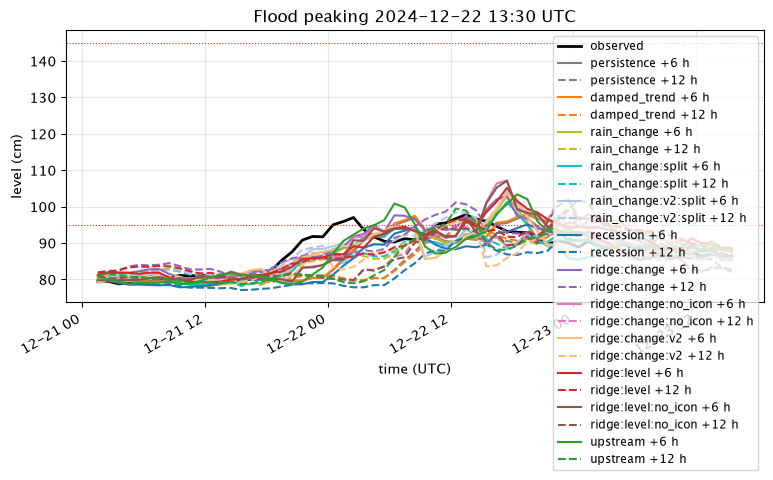
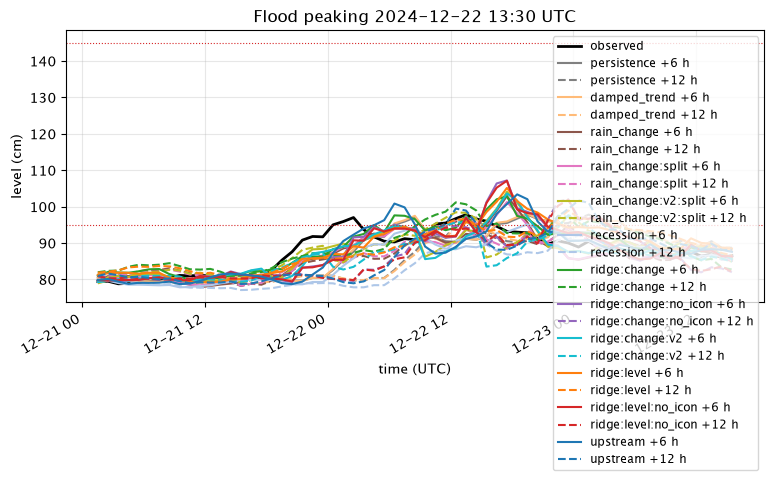
docs(evaluation): regenerate the 2026-10-15-models-v2 log section
Same run, rebuilt with the tie-aware summary and the new palette.

diff --git a/analysis/model-evaluation/experiments.md b/analysis/model-evaluation/experiments.md
@@ -168,7 +168,7 @@ Shift in hours that best matches the forecast to the observed level on high wate
 
 ## 2026-10-15-models-v2
 
-Lowest mean MAE over leads 1-24 h: rain_change:v2:split over all issue times (2.1 cm; persistence 2.8 cm), ridge:change:v2 at high water (4.8 cm; persistence 8.3 cm).
+Lowest mean MAE over leads 1-24 h: rain_change:v2:split and ridge:change:v2 over all issue times (2.1 cm; persistence 2.8 cm), ridge:change:v2 at high water (4.8 cm; persistence 8.3 cm).
 First crossings of 95 cm warned at least 3 h ahead: ridge:change 3 of 6, persistence 0 of 6.
 False alarms at 95 cm: 0.00 to 0.60 per month.
 
